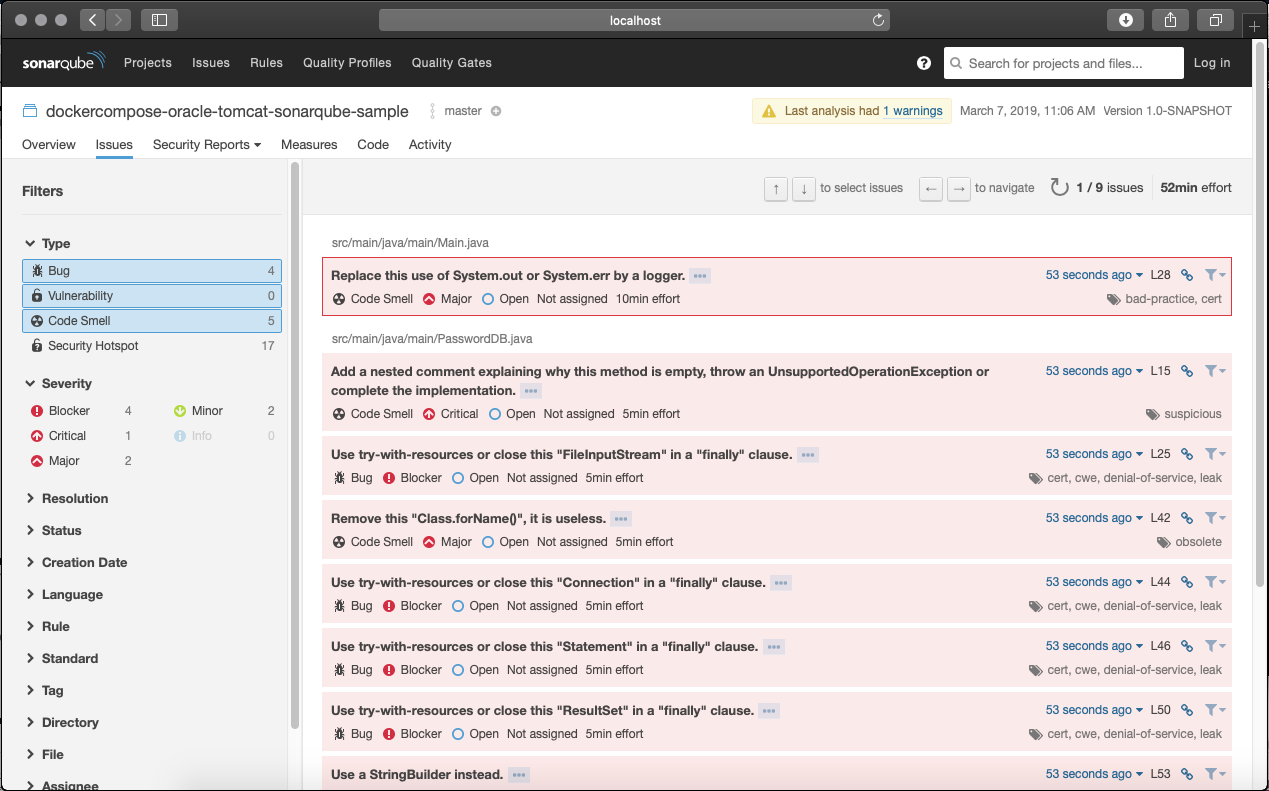
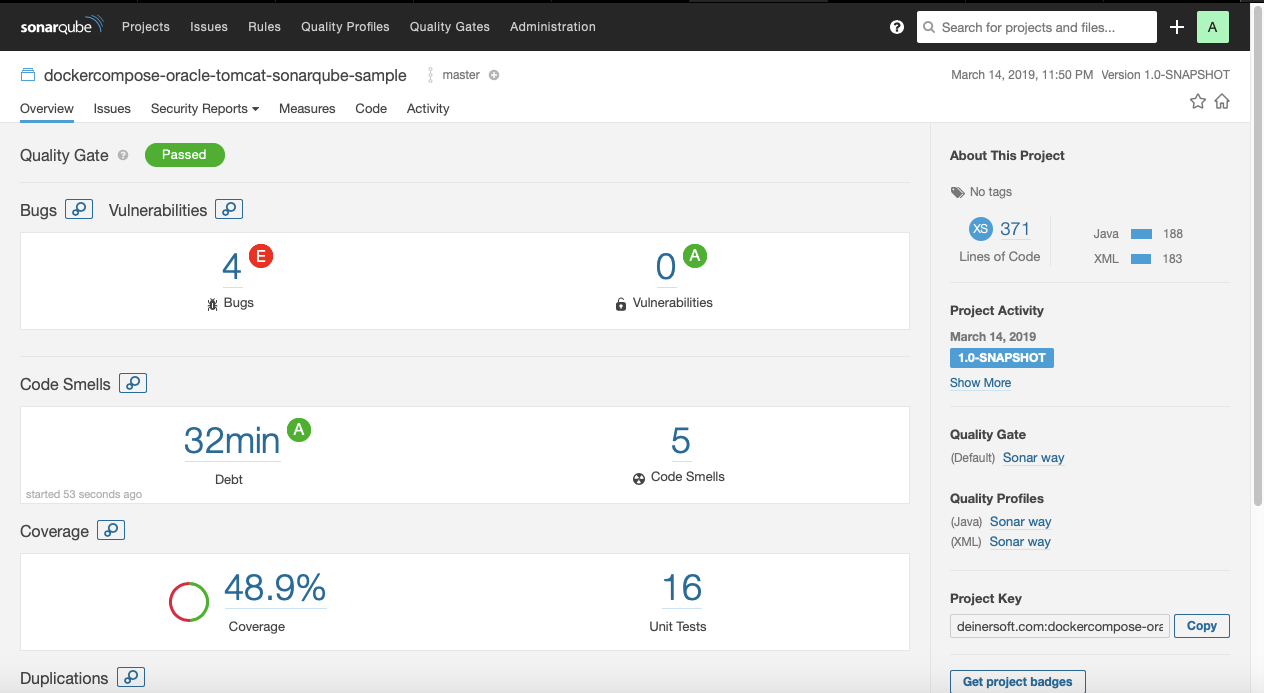
Add in unit tests, and code coverage for SonarQube to display.

diff --git a/src/test/java/test/unit/PasswordRulesUnitTest.java b/src/test/java/test/unit/PasswordRulesUnitTest.java
@@ -1,0 +1,52 @@
+package test.unit;
+
+import main.PasswordRules;
+
+import org.junit.Test;
+
+import static org.hamcrest.CoreMatchers.is;
+import static org.hamcrest.CoreMatchers.not;
+import static org.hamcrest.MatcherAssert.assertThat;
+
+public class PasswordRulesUnitTest {
+    @Test
+    public void testPasswordLength1() {
+        assertThat(new PasswordRules("a").evaluate(), is("password must be at least 8 characters long"));
+    }
+    @Test
+    public void testPasswordLength7() {
+        assertThat(new PasswordRules("abcdefg").evaluate(), is("password must be at least 8 characters long"));
+    }
+    @Test
+    public void testPasswordLength8() {
+        assertThat(new PasswordRules("12345678").evaluate(), not("password must be at least 8 characters long"));
+    }
+    @Test
+    public void testPasswordAllNumbers() {
+        assertThat(new PasswordRules("12345678").evaluate(), is("password must have letters in it"));
+    }
+    @Test
+    public void testPasswordAllUpperCase() {
+        assertThat(new PasswordRules("HOWARDDEINER").evaluate(), is("password must have both upper and lower case letters in it"));
+    }
+    @Test
+    public void testPasswordAllLowerCase() {
+        assertThat(new PasswordRules("howarddeiner").evaluate(), is("password must have both upper and lower case letters in it"));
+    }
+    @Test
+    public void testPasswordNoDigits() {
+        assertThat(new PasswordRules("HowardDeiner").evaluate(), is("password must have at least 1 digit in it"));
+    }
+    @Test
+    public void testPasswordNoSpecialCaseCharacters() {
+        assertThat(new PasswordRules("HowardDeiner1").evaluate(), is("password must have at least 1 special case character in it"));
+    }
+    @Test
+    public void testPasswordWithSpaces() {
+        assertThat(new PasswordRules("Howard Deiner!").evaluate(), is("password can not have any spaces in it"));
+    }
+    @Test
+    public void testPasswordOK() {
+        assertThat(new PasswordRules("bFihJv!srBChibW4ay#eXEksdh").evaluate(), is("password OK"));
+    }
+}

diff --git a/src/test/java/test/unit/PasswordStrengthUnitTest.java b/src/test/java/test/unit/PasswordStrengthUnitTest.java
@@ -1,0 +1,34 @@
+package test.unit;
+
+import main.PasswordStrength;
+import org.junit.Test;
+
+import static org.hamcrest.CoreMatchers.is;
+import static org.hamcrest.MatcherAssert.assertThat;
+
+public class PasswordStrengthUnitTest {
+    @Test
+    public void testPasswordLength0() {
+        assertThat(new PasswordStrength("").evaluate(), is(-8));
+    }
+    @Test
+    public void testPasswordLength8() {
+        assertThat(new PasswordStrength("aBcDeFgH").evaluate(), is(0));
+    }
+    @Test
+    public void testPasswordLength16With8SpecialCharacters() {
+        assertThat(new PasswordStrength("a!b@c#d$e%f^g&h*").evaluate(), is(16));
+    }
+    @Test
+    public void testPasswordLength12With8RepeatedUpperLowerViolations() {
+        assertThat(new PasswordStrength("HowardDeiner").evaluate(), is(-4));
+    }
+    @Test
+    public void testPasswordSortOfOK() {
+        assertThat(new PasswordStrength("passWord1!").evaluate(), is(-1));
+    }
+    @Test
+    public void testPasswordDesirable() {
+        assertThat(new PasswordStrength("bFihJv!srBChibW4ay#eXEksdh").evaluate(), is(11));
+    }
+}

diff --git a/readme.md b/readme.md
@@ -1,26 +1,32 @@
 This project demonstrates a way to build and test directly on the desktop command line (and by implication, on CI servers as well) between an Oracle database and a Tomcat application.  Sonarqube is also locally incorporated for static code analysis.
 
+
 ```bash
-./build_create.sh
+./build_1_run_unit_tests.sh
+```
+1. Build the project and run unit tests.
+
+```bash
+./build_2_create_integration_test_environment.sh
 ```
 1. Docker-compose containers for Oracle, Tomcat, and Sonarqube to life.
 2. Wait appropriately for the containers to start and be ready for operations.
 3. Build a liquibase.properties file and invoke Liquibase to create the test database.
 
 ```bash
-./build_test.sh
+./build_3_run_integration_tests.sh
 ```
 1. Build the Tomcat war to test along with an oracleConfig.properties to configure the app to the database it needs.
 2. Deploy those two artifacts to Tomcat.
 3. Perform a smoke test against the integrated system.
 4. Build the rest_webservice.properties file used by our Cucumber tests. 
 5. Run the full integration regression test suite (Cucumber for Java used).
-6. Run the Sonarqube analysis 
+6. Run the Jacoco and Sonarqube analysis 
 7. Enjoy the results!
 ![Image of Sonarqube](readme.md.sonarqube.screenshot.png)
 
 ```bash
-./build_destroy.sh
+./build_4_destroy_integration_test_environment.sh
 ```
 1. Docker-compose away the containers we built.
 2. Delete the temporary files we created during the run that facilitated the integration of components.
